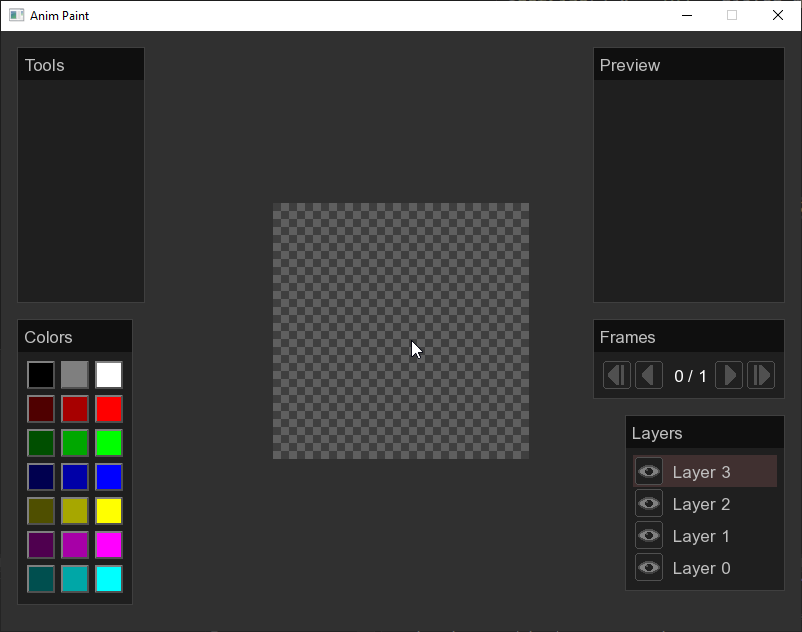
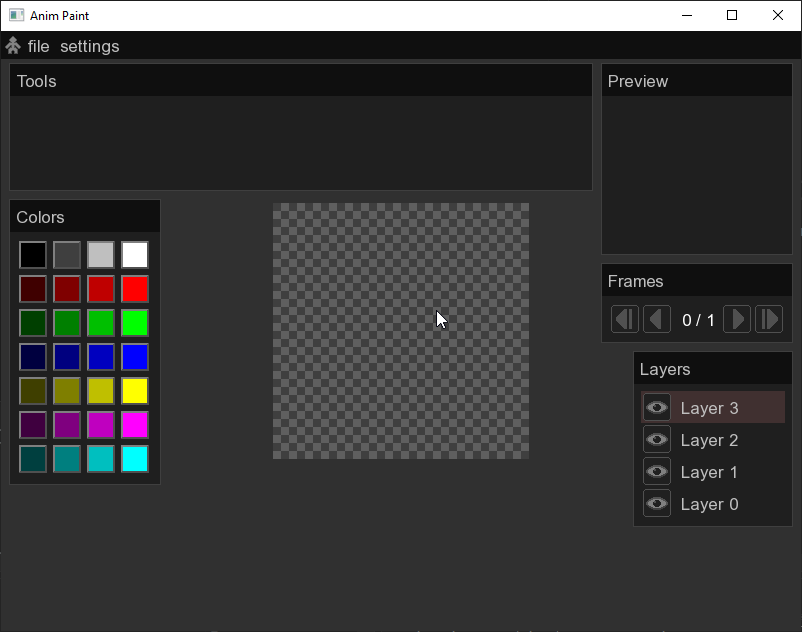
added main menu on top

diff --git a/Anim-Paint/MainMenu.hpp b/Anim-Paint/MainMenu.hpp
@@ -1,0 +1,160 @@
+#ifndef MainMenu_hpp
+#define MainMenu_hpp
+
+enum class MenuBoxState { Idle, Hover, Pressed };
+
+
+class MenuBox : public ElementGUI {
+public:
+	sf::RectangleShape rect;
+	sf::Text text;
+	MenuBoxState state;
+	std::function<void()> onclick_func;
+	sf::Time clickTime;
+
+	MenuBox(std::wstring text) : ElementGUI() {
+		this->text = sf::Text(text, basicFont, menu_font_size);
+		this->text.setFillColor(menu_text_color);
+		int w = this->text.getGlobalBounds().width + (menu_height - basicFont.getLineSpacing(menu_font_size))/2;
+		rect = sf::RectangleShape(sf::Vector2f(w, menu_height-(2*menu_padding)));
+	
+	}
+
+	void setPosition(sf::Vector2f position) {
+		this->rect.setPosition(position + sf::Vector2f(menu_padding, 0));
+		this->text.setPosition(position + sf::Vector2f(menu_padding, -menu_padding + (menu_height - basicFont.getLineSpacing(menu_font_size))/2));
+	}
+
+	void unclick() {
+		state = MenuBoxState::Idle;
+		rect.setFillColor(menubox_idle_color);
+	}
+
+	void hover() {
+		state = MenuBoxState::Hover;
+		rect.setFillColor(menubox_hover_color);
+
+	}
+
+	void click() {
+		state = MenuBoxState::Pressed;
+		rect.setFillColor(menubox_press_color);
+		clickTime = currentTime;
+	}
+
+
+	void cursorHover() {
+		if (rect.getGlobalBounds().contains(worldMousePosition)) {
+			ElementGUI_hovered = this;
+		}
+	}
+
+	void handleEvent(sf::Event& event) {
+		if (rect.getGlobalBounds().contains(worldMousePosition)) {
+			if (event.type == sf::Event::MouseButtonPressed && event.mouseButton.button == sf::Mouse::Left) {
+				ElementGUI_pressed = this;
+			}
+			else if (event.type == sf::Event::MouseButtonReleased && event.mouseButton.button == sf::Mouse::Left) {
+				if (ElementGUI_pressed == this) {
+					click();
+				}
+			}
+
+		}
+	}
+
+	void update() {
+
+		if (state == MenuBoxState::Pressed) {
+			if ((currentTime - clickTime).asSeconds() > 0.05f) {
+				if (onclick_func) {
+					onclick_func();
+				}
+				ElementGUI_pressed = nullptr;
+				unclick();
+			}
+		}
+		else if (ElementGUI_hovered == this) {
+			hover();
+		}
+		else
+			unclick();
+	}
+
+	void draw() {
+		window->draw(rect);
+		window->draw(text);
+	}
+};
+
+class MainMenu : public ElementGUI {
+public:
+
+	sf::RectangleShape rect;
+	sf::Sprite logo;
+	std::vector < MenuBox* > options;
+
+ 	MainMenu() : ElementGUI() {
+		rect = sf::RectangleShape(sf::Vector2f(window->getSize().x, menu_height));
+		rect.setFillColor(menu_rect_color);
+		rect.setPosition(0, 0);
+
+		logo = sf::Sprite(*getTexture(L"tex\\logo\\small_logo.png")->texture);
+
+		options.push_back(new MenuBox(L"file"));
+		options.push_back(new MenuBox(L"settings"));
+
+		setPosition(sf::Vector2f(0, 0));
+	}
+
+	~MainMenu() { }
+
+	sf::Vector2f getSize() {
+		return rect.getSize();
+	}
+
+	void setPosition(sf::Vector2f position) {
+		rect.setPosition(position);
+		logo.setPosition(position + sf::Vector2f(0, menu_padding));
+
+		int x = 24;
+		int dist = 8;
+		int y = position.y + menu_padding;
+		for (int i = 0; i < options.size(); i++) {
+			options[i]->setPosition(sf::Vector2f(position.x + x, y));
+			x = x + options[i]->rect.getSize().x + dist * (i+1);
+		}
+	}
+
+	void cursorHover() {
+		if (rect.getGlobalBounds().contains(worldMousePosition)) {
+			ElementGUI_hovered = this;
+		}
+
+		for (auto& option : options)
+			option->cursorHover();
+		
+	}
+
+	void handleEvent(sf::Event& event) {
+		for (auto& option : options)
+			option->handleEvent(event);
+	}
+
+	void update() {
+		for (auto& option : options)
+			option->update();
+	}
+
+	void draw() {
+		window->draw(rect);
+		window->draw(logo);
+
+		for (auto& option : options)
+			option->draw();
+	}
+};
+
+MainMenu* main_menu = nullptr;
+
+#endif

diff --git a/Anim-Paint/main.cpp b/Anim-Paint/main.cpp
@@ -16,17 +16,14 @@
 #include "Layer.hpp"
 #include "Frame.hpp"
 
+#include "MainMenu.hpp"
 #include "ColorsDialog.hpp"
 #include "FramesDialog.hpp"
 #include "LayersDialog.hpp"
-
-
-
-
 #include "Canvas.hpp"
 
 void createDialogs() {
-	Dialog* preview = new Dialog(L"Preview", sf::Vector2f(192, 192+32), sf::Vector2f(window->getSize().x - 192 - dialog_margin, dialog_margin));
+	Dialog* preview = new Dialog(L"Preview", sf::Vector2f(192, 192), sf::Vector2f(window->getSize().x - 192 - dialog_margin, main_menu->getSize().y + dialog_margin));
 	dialogs.push_back(preview);
 	
 	frames_dialog = new FramesDialog(L"Frames",
@@ -39,7 +36,7 @@ void createDialogs() {
 		sf::Vector2f(window->getSize().x - 160 - dialog_margin, dialogs.back()->getPosition().y + dialogs.back()->getSize().y + dialog_margin));
 	dialogs.push_back(layers_dialog);
 
-	dialogs.push_back(new Dialog(L"Tools", sf::Vector2f(window->getSize().x - preview->getSize().x - 3* dialog_margin, 128), sf::Vector2f(dialog_margin, dialog_margin)));
+	dialogs.push_back(new Dialog(L"Tools", sf::Vector2f(window->getSize().x - preview->getSize().x - 3* dialog_margin, 128), sf::Vector2f(dialog_margin, main_menu->getSize().y + dialog_margin)));
 
 	colors_dialog = new ColorsDialog(L"Colors",
 		sf::Vector2f(152, 286),
@@ -51,6 +48,7 @@ int main() {
 	
 	loadTextures();
 	loadTheme();
+	main_menu = new MainMenu();
 	createDialogs();
 
 	canvas = new Canvas(sf::Vector2i(frames_dialog->getCurrentFrame()->layers[0]->image.getSize()));
@@ -66,6 +64,7 @@ int main() {
 		ElementGUI_hovered = nullptr;
 
 		canvas->cursorHover();
+		main_menu->cursorHover();
 
 		for (auto& dialog : dialogs)
 			dialog->cursorHover();
@@ -74,8 +73,10 @@ int main() {
 		canvas->update();
 		for (auto& dialog : dialogs)
 			dialog->update();
+		main_menu->update();
+
+
 		// handle events
-		
 		sf::Event event;
 		while (window->pollEvent(event)) {
 
@@ -85,17 +86,21 @@ int main() {
 			if (event.type == sf::Event::MouseButtonPressed) {
 
 				canvas->handleEvent(event);
+				main_menu->handleEvent(event);
 				for (auto& dialog : dialogs)
 					dialog->handleEvent(event);
+				
 			}
 			else if (event.type == sf::Event::MouseButtonReleased) {
 
 				canvas->handleEvent(event);
+				main_menu->handleEvent(event);
 				for (auto& dialog : dialogs)
 					dialog->handleEvent(event);
 			}
 			else if (event.type == sf::Event::MouseMoved) {
 				canvas->handleEvent(event);
+				main_menu->handleEvent(event);
 				for (auto& dialog : dialogs)
 					dialog->handleEvent(event);
 			}
@@ -118,6 +123,7 @@ int main() {
 		// render
 		window->clear(sf::Color(48,48,48));
 		canvas->draw();
+		main_menu->draw();
 		for (auto& dialog : dialogs) 
 			dialog->draw();
 		

diff --git a/Anim-Paint/Theme.hpp b/Anim-Paint/Theme.hpp
@@ -3,6 +3,7 @@
 
 sf::Font basicFont;
 
+// dialogs
 int dialog_border_width;
 int dialog_margin;						// distance from edge of screen to dialog
 int dialog_padding;
@@ -12,6 +13,16 @@ sf::Color dialog_title_text_color;
 sf::Color dialog_rect_color;
 sf::Color dialog_title_rect_color;
 sf::Color dialog_content_rect_color;
+
+// main menu
+int menu_height;
+int menu_padding;
+int menu_font_size;
+sf::Color menu_rect_color;
+sf::Color menu_text_color;
+sf::Color menubox_idle_color;
+sf::Color menubox_hover_color;
+sf::Color menubox_press_color;
 
 sf::Color normal_text_color;
 
@@ -24,6 +35,7 @@ void loadTheme() {
 
 	basicFont.loadFromFile("C:/Windows/Fonts/arial.ttf");
 
+	// dialogs
 	dialog_margin = 8;
 	dialog_padding = 8;
 	dialog_title_font_size = 17;
@@ -33,6 +45,16 @@ void loadTheme() {
 	dialog_rect_color = sf::Color(63, 63, 63);
 	dialog_title_rect_color = sf::Color(15, 15, 15);
 	dialog_content_rect_color = sf::Color(31, 31, 31);
+
+	//main menu
+	menu_height = 28;
+	menu_padding = 2;
+	menu_font_size = 17;
+	menu_rect_color = sf::Color(15, 15, 15);
+	menu_text_color = sf::Color(191, 191, 191);
+	menubox_idle_color = sf::Color(15, 15, 15);
+	menubox_hover_color = sf::Color(47, 47, 47);
+	menubox_press_color = sf::Color(31, 31, 31);
 
 	normal_text_color = sf::Color(191, 191, 191);
 

diff --git a/Anim-Paint/Textures.hpp b/Anim-Paint/Textures.hpp
@@ -34,6 +34,10 @@ void loadTexture(std::wstring path) {
 }
 
 void loadTextures() {
+
+	// logos
+	loadTexture(L"tex\\logo\\small_logo.png");
+
 	// dialog - frames
 	loadTexture(L"tex\\frames\\first.png");
 	loadTexture(L"tex\\frames\\prev.png");

diff --git a/README.md b/README.md
@@ -12,7 +12,6 @@
 
 ## Zrzuty ekranu
 ![Zrzut ekranu](screenshots/01.png)
-![Zrzut ekranu](screenshots/02.png)
 
 ## Instalacja
 1. Pobierz i zainstaluj Visual Studio 2022
